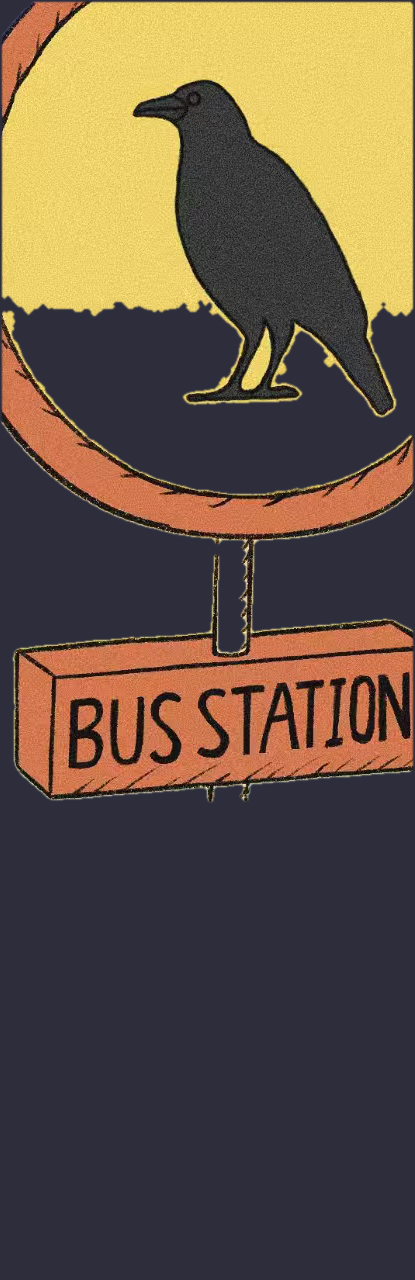
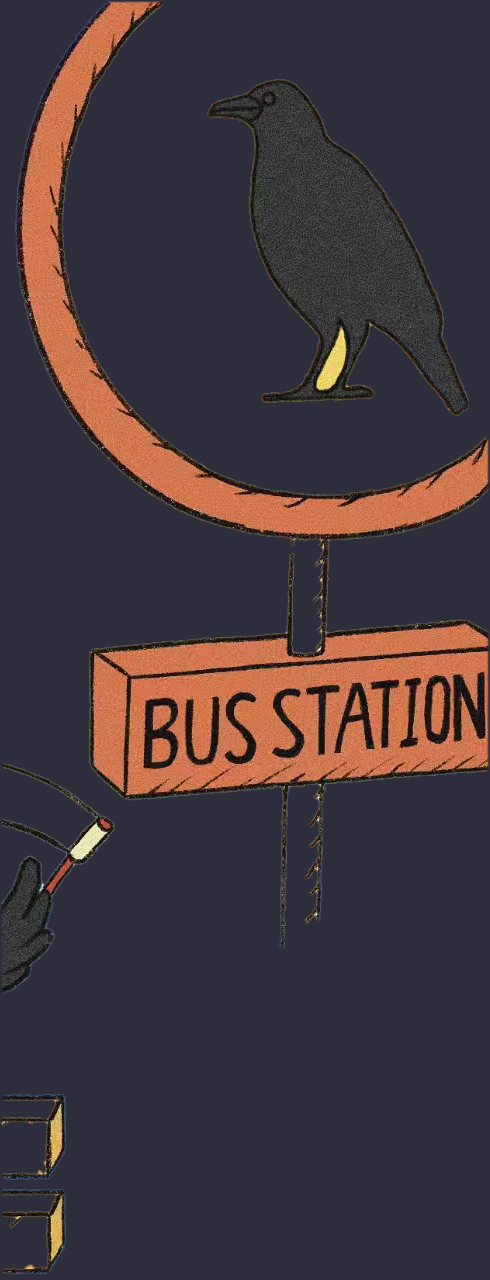
v18: sign completed (disc/plate/pole rebuilt), drive-in from left, independent bird hops, sign flip, horn+bird cheer audio

diff --git a/index.html b/index.html
@@ -47,7 +47,7 @@
   <p>2026 伊坂幸太郎月历 · 隐藏彩蛋</p>
   <button id="arBtn">开始 AR · 对准月历插画</button>
   <button id="vrBtn">进入 VR · 插画动起来</button>
-  <p style="font-size:11px;opacity:.4;margin-top:10px">v17</p>
+  <p style="font-size:11px;opacity:.4;margin-top:10px">v18</p>
 </div>
 
 <div id="container"></div>
@@ -91,6 +91,56 @@ window.addEventListener('unhandledrejection', (e) => {
   showErr((r && (r.message || r)) || '未处理的异常');
 });
 const backToSplash = () => { splash.style.display = 'flex'; };
+
+/* ── 音效（Web Audio 合成，无需外部文件） ── */
+let actx = null;
+function ensureAudio() {
+  const Ctx = window.AudioContext || window.webkitAudioContext;
+  if (!Ctx) return null;
+  if (!actx) actx = new Ctx();
+  if (actx.state === 'suspended') actx.resume();
+  return actx;
+}
+function playHorn() {
+  const ctx = ensureAudio(); if (!ctx) return;
+  const t0 = ctx.currentTime;
+  const master = ctx.createGain(); master.gain.value = 0.14;
+  const lp = ctx.createBiquadFilter(); lp.type = 'lowpass'; lp.frequency.value = 1500;
+  master.connect(lp).connect(ctx.destination);
+  const beep = (start, dur) => {
+    [392, 494].forEach(f => {
+      const o = ctx.createOscillator(); o.type = 'sawtooth'; o.frequency.value = f;
+      const g = ctx.createGain();
+      g.gain.setValueAtTime(0, t0 + start);
+      g.gain.linearRampToValueAtTime(1, t0 + start + 0.03);
+      g.gain.setValueAtTime(1, t0 + start + dur - 0.05);
+      g.gain.linearRampToValueAtTime(0, t0 + start + dur);
+      o.connect(g).connect(master);
+      o.start(t0 + start); o.stop(t0 + start + dur + 0.02);
+    });
+  };
+  beep(0, 0.26);
+  beep(0.36, 0.5);
+}
+function playCheer() {
+  const ctx = ensureAudio(); if (!ctx) return;
+  const t0 = ctx.currentTime;
+  for (let i = 0; i < 16; i++) {
+    const st = Math.random() * 1.2;
+    const f0 = 1900 + Math.random() * 1400;
+    const dur = 0.05 + Math.random() * 0.07;
+    const o = ctx.createOscillator(); o.type = 'sine';
+    o.frequency.setValueAtTime(f0, t0 + st);
+    o.frequency.exponentialRampToValueAtTime(f0 * 1.45, t0 + st + dur * 0.55);
+    o.frequency.exponentialRampToValueAtTime(f0 * 0.95, t0 + st + dur);
+    const g = ctx.createGain();
+    g.gain.setValueAtTime(0, t0 + st);
+    g.gain.linearRampToValueAtTime(0.05, t0 + st + 0.008);
+    g.gain.exponentialRampToValueAtTime(0.0008, t0 + st + dur);
+    o.connect(g).connect(ctx.destination);
+    o.start(t0 + st); o.stop(t0 + st + dur + 0.02);
+  }
+}
 
 /* ══════════ 原画贴片场景（AR / VR 共用） ══════════ */
 const UNIT = 1 / 1745;                    // 目标图宽归一化为 1
@@ -196,9 +246,11 @@ function createArtScene(meta, tex, opts = {}) {
   {
     const [x0, y0, x1, y1] = meta.rects.sign;
     const sign = spriteMesh('sign', meta, tex, 0);
-    const px = pxX((x0 + x1) / 2), pyBottom = pxY(y1);
-    signGroup.position.set(px, pyBottom, signZ);
-    sign.position.set(0, (pxY((y0 + y1) / 2) - pyBottom), 0);
+    sign.material.side = THREE.DoubleSide;      // 翻转时背面可见
+    const pivotX = pxX(1554);                   // 杆轴
+    const pyBottom = pxY(y1);
+    signGroup.position.set(pivotX, pyBottom, signZ);
+    sign.position.set(pxX((x0 + x1) / 2) - pivotX, pxY((y0 + y1) / 2) - pyBottom, 0);
     signGroup.add(sign);
     group.add(signGroup);
   }
@@ -249,6 +301,7 @@ function createArtScene(meta, tex, opts = {}) {
   const busRest = new THREE.Vector3(0, 0, -0.04);
   const busStart = new THREE.Vector3(driveFromX, 0, -0.04);
   let drive = null, wheelAngle = 0, lastT = 0;
+  let hornFired = false, cheerFired = false, wasDriving = false;
 
   const animate = (t) => {
     const dt = Math.min(0.05, Math.max(0, t - lastT));
@@ -282,17 +335,33 @@ function createArtScene(meta, tex, opts = {}) {
     wheelAngle -= wheelSpeed * dt;
     wheels.forEach(w => { w.rotation.z = wheelAngle; });
 
-    /* 鸟群 */
+    /* 鸟群：每只独立地上下跳跃 */
     const excite = 1 + (1 - driveK) * 1.1;
-    birds.forEach(b => {
+    birds.forEach((b, i) => {
       const ph = b.userData.phase;
-      const hop = Math.pow(Math.max(0, Math.sin(t * 0.9 * excite + ph * 2)), 22) * 0.016;
-      b.position.y = b.userData.baseY + Math.abs(Math.sin(t * 0.55 * excite + ph)) * 0.0035 + hop;
-      b.rotation.z = Math.sin(t * 0.5 * excite + ph) * 0.012;
+      const period = (2.4 + (i * 0.53) % 1.6) / excite;   // 各自周期不同
+      const cyc = ((t / period) + ph) % 1;
+      let hop = 0;
+      if (cyc < 0.55) {
+        const q = cyc / 0.55;                              // 抛物线式腾空
+        hop = 4 * q * (1 - q);
+      }
+      const h = 0.020 + (i % 3) * 0.006;                   // 跳起高度不同
+      b.position.y = b.userData.baseY + hop * h + Math.sin(t * 1.3 + ph) * 0.002;
+      b.rotation.z = Math.sin(t * 2 + ph) * 0.02 + hop * 0.04;
     });
 
-    /* 站牌轻摆 */
-    signGroup.rotation.z = Math.sin(t * 0.7) * 0.010;
+    /* 站牌：轻摆 + 周期性整体翻转 */
+    const flipCycle = 9.0;
+    const fu = (t % flipCycle) / flipCycle;
+    let signRotY = Math.sin(t * 0.6) * 0.08;
+    if (fu < 0.22) {
+      const q = fu / 0.22;
+      const fe = q * q * (3 - 2 * q);
+      signRotY += Math.PI * 2 * fe;
+    }
+    signGroup.rotation.y = signRotY;
+    signGroup.rotation.z = Math.sin(t * 0.7) * 0.008;
 
     /* 星星闪烁 */
     stars.forEach(s => {
@@ -308,7 +377,7 @@ function createArtScene(meta, tex, opts = {}) {
 }
 
 /* ══════════ AR 模式 ══════════ */
-document.getElementById('arBtn').addEventListener('click', startAR);
+document.getElementById('arBtn').addEventListener('click', () => { ensureAudio(); startAR(); });
 
 async function startAR() {
   splash.style.display = 'none';
@@ -372,7 +441,7 @@ async function startAR() {
   const anchor = mindarThree.addAnchor(0);
   const anchorRoot = anchor.group || anchor;
 
-  const art = createArtScene(ART_META, ART_TEX, { withSky: false, driveFromX: 1.15, driveDur: 3.6 });
+  const art = createArtScene(ART_META, ART_TEX, { withSky: false, driveFromX: -1.15, driveDur: 3.6 });
   art.group.position.z = 0.01;
   anchorRoot.add(art.group);
 
@@ -420,7 +489,7 @@ let vrActive = false;
 let vrState = null;
 let yawT = 0, pitchT = 0, lastInteract = 0, gyroBase = null, gyroOff = 0;
 
-document.getElementById('vrBtn').addEventListener('click', () => enterVR(false));
+document.getElementById('vrBtn').addEventListener('click', () => { ensureAudio(); enterVR(false); });
 document.getElementById('vrExit').addEventListener('click', () => {
   vrActive = false;
   vrRoot.style.display = 'none';
@@ -501,7 +570,7 @@ async function enterVR(auto = false) {
     fitCamera();
   });
 
-  const art = createArtScene(ART_META, ART_TEX, { withSky: true, driveFromX: 1.35, driveDur: 4.2 });
+  const art = createArtScene(ART_META, ART_TEX, { withSky: true, driveFromX: -1.35, driveDur: 4.2 });
   scene.add(art.group);
   art.startDriveIn(0.9);
 

diff --git a/tools/extract.py b/tools/extract.py
@@ -83,15 +83,16 @@ CROPS = {
     "bird3": (495,  680, 815,  SLAT, [(155, 270), (80, 80)], False),
     "bird4": (760,  790, 1085, SLAT, [(120, 160), (240, 240)], False),
     "bird6": (850,  650, 1345, SLAT, [(280, 300), (235, 115)], False),
-    "sign":  (1330, 0,   1745, 1280, [(210, 200), (270, 640), (110, 1000)], True),
+    "sign":  (1255, 0,   1745, 1280, None, "ink_all"),
     "bench": (55,  slat_top - 6, 1300, 1280, [(600, 60), (200, 40)], True),
 }
 
 rects, alphas = {}, {}
 for name, (x0, y0, x1, y1, seeds, mode) in CROPS.items():
-    if mode == "ink":
-        ink_c = ndimage.binary_closing(ink[y0:y1, x0:x1], iterations=2)
-        fgc = ndimage.binary_fill_holes(ink_c) | red[y0:y1, x0:x1]
+    if mode in ("ink", "ink_all"):
+        ink_c = ink[y0:y1, x0:x1] | red[y0:y1, x0:x1]
+        ink_c = ndimage.binary_closing(ink_c, iterations=2)
+        fgc = ndimage.binary_fill_holes(ink_c)
         fgc = ndimage.binary_opening(fgc, iterations=1)
     else:
         fgc = fg_global[y0:y1, x0:x1].copy()
@@ -99,7 +100,15 @@ for name, (x0, y0, x1, y1, seeds, mode) in CROPS.items():
         fgc = ndimage.binary_opening(fgc, iterations=2)
         if mode is True:
             fgc = ndimage.binary_fill_holes(fgc)
-    keep = keep_seed_components(fgc, seeds, min_area=500 if name == "bus" else 250)
+    if mode == "ink_all":
+        lab_a, n_a = ndimage.label(fgc)
+        keep = np.zeros_like(fgc)
+        for i in range(1, n_a + 1):
+            comp = (lab_a == i)
+            if comp.sum() >= 1500:
+                keep |= comp
+    else:
+        keep = keep_seed_components(fgc, seeds, min_area=500 if name == "bus" else 250)
     if name == "bird6":
         keep = ndimage.binary_opening(keep, iterations=1)
         busA = np.asarray(Image.open(os.path.join(OUT, "bus.png")).convert("RGBA"))[:, :, 3] > 10
@@ -133,27 +142,84 @@ for name in ["bird1", "bird2", "bird3", "bird4", "bird6"]:
     acc = np.maximum(acc, a_full)
     alphas[name] = a_full[y0:y1, x0:x1]
 
-# ── 站牌圆盘：按红环拟合圆，兜底强制填充 ──
-x0, y0, x1, y1 = rects["sign"]
-sign_rgb = img[y0:y1, x0:x1]
-sr = (sign_rgb[:, :, 0] > 120) & ((sign_rgb[:, :, 0].astype(np.int16) - np.maximum(sign_rgb[:, :, 1], sign_rgb[:, :, 2])) > 55)
-sr[int(sign_rgb.shape[0] * 0.45):, :] = False
-s_lab, s_n = ndimage.label(sr)
-sign_file = os.path.join(OUT, "sign.png")
-sign_img = np.asarray(Image.open(sign_file).convert("RGBA")).copy()
-if s_n:
-    sizes = ndimage.sum(sr, s_lab, range(1, s_n + 1))
-    ci = int(np.argmax(sizes)) + 1
-    ys, xs = np.nonzero(s_lab == ci)
-    ccx, ccy = xs.mean(), ys.mean()
-    rad = (np.sqrt((xs - ccx) ** 2 + (ys - ccy) ** 2)).max() + 3
-    yy, xx = np.mgrid[0:sign_img.shape[0], 0:sign_img.shape[1]]
-    d = np.sqrt((xx - ccx) ** 2 + (yy - ccy) ** 2)
-    inside = np.clip((rad - d) / 2.5, 0, 1)
-    sign_img[:, :, 3] = np.maximum(sign_img[:, :, 3], (inside * 255).astype(np.uint8))
-    Image.fromarray(sign_img, "RGBA").save(sign_file)
-    print("disc fill: c=(%.0f,%.0f) r=%.0f" % (ccx, ccy, rad))
-    alphas["sign"] = sign_img[:, :, 3].astype(np.float32) / 255
+# ── 站牌重建：牌子向右补全（含 N 字）+ 杆子重画到圆头 ──
+def rebuild_sign():
+    sx0, sy0 = 1255, 0
+    art_path = os.path.join(OUT, "sign.png")
+    art = np.asarray(Image.open(art_path).convert("RGBA")).copy()   # 415 x 1280
+    AH, AW = art.shape[:2]
+    NEWW = 580
+    TOPPAD = 110
+    canvas = np.zeros((AH + TOPPAD, NEWW, 4), np.uint8)
+
+    # 杆子位置：tan 色检测（行 800..1200）
+    strip = img[800:1200, 1480:1640]
+    tanm = (np.abs(strip[:, :, 0].astype(int) - 234) < 28) &            (np.abs(strip[:, :, 1].astype(int) - 206) < 28) &            (np.abs(strip[:, :, 2].astype(int) - 158) < 36)
+    xs = np.nonzero(tanm)[1]
+    if len(xs):
+        px_a = int(np.percentile(xs, 5)) + 1480 - sx0
+        px_b = int(np.percentile(xs, 95)) + 1480 - sx0
+    else:
+        px_a, px_b = 206, 238
+    tan_col = np.array([234, 206, 158, 255], np.uint8)
+    dark    = np.array([30, 20, 15, 255], np.uint8)
+    pole_top, pole_bot, cap_r = 522, 1228, 16
+    canvas[pole_top + TOPPAD:pole_bot + TOPPAD, px_a:px_b] = tan_col
+    canvas[pole_top + TOPPAD:pole_bot + TOPPAD, px_a:px_a + 2] = dark
+    canvas[pole_top + TOPPAD:pole_bot + TOPPAD, px_b - 2:px_b] = dark
+    yy, xx = np.mgrid[0:AH + TOPPAD, 0:NEWW]
+    yy_art = yy - TOPPAD
+    cx_cap = (px_a + px_b) / 2.0
+    dist = np.sqrt((yy_art - pole_bot) ** 2 + (xx - cx_cap) ** 2)
+    canvas[(dist <= cap_r) & (yy_art >= pole_bot)] = tan_col
+    canvas[(np.abs(dist - cap_r) <= 1.5) & (yy_art >= pole_bot)] = dark
+
+    # 贴回原画部件（圆盘/牌子/乌鸦）
+    am = art[:, :, 3] > 128
+    # 排除横幅右端残片（左下角区域），避免混入站牌
+    yy_a, xx_a = np.mgrid[0:AH, 0:AW]
+    am = am & ~((yy_a > 790) & (xx_a < 1500 - sx0))
+    am = am & ~((yy_a > 600) & (yy_a < 700) & (xx_a < 60))   # 左侧碎屑
+    region = canvas[TOPPAD:TOPPAD + AH, :AW]
+    region[am] = art[am]
+
+    # 补全被图片上边缘切掉的圆盘顶部（最小二乘拟合红环）
+    rim = red[0:560, 1255:1745]
+    ys_r, xs_r = np.nonzero(rim)
+    drop = (ys_r > 545)
+    ys_r, xs_r = ys_r[~drop], xs_r[~drop]
+    if len(xs_r) > 500:
+        A = np.c_[xs_r, ys_r, np.ones(len(xs_r))]
+        b = -(xs_r.astype(np.float64) ** 2 + ys_r.astype(np.float64) ** 2)
+        sol, *_ = np.linalg.lstsq(A, b, rcond=None)
+        ccx, ccy = -sol[0] / 2, -sol[1] / 2
+        r_fit = np.sqrt(ccx * ccx + ccy * ccy - sol[2])
+        dists = np.sqrt((xs_r - ccx) ** 2 + (ys_r - ccy) ** 2)
+        r_in = float(np.percentile(dists, 2)) - 2
+        r_out = float(np.percentile(dists, 98)) + 3
+        print("disc circle: c=(%.0f,%.0f) r=%.0f in=%.0f out=%.0f" % (ccx, ccy, r_fit, r_in, r_out))
+
+        yy2, xx2 = np.mgrid[0:AH + TOPPAD, 0:NEWW]
+        dx = xx2 - ccx
+        dy = yy2 - (ccy + TOPPAD)
+        dd = np.sqrt(dx * dx + dy * dy)
+        empty = canvas[:, :, 3] == 0
+        red_c = np.array([205, 118, 80, 255], np.uint8)
+        yellow_c = np.array([233, 206, 103, 255], np.uint8)
+        dark_c = np.array([30, 20, 15, 255], np.uint8)
+
+        face = (dd < r_in) & empty
+        canvas[face] = yellow_c
+        ring = (dd >= r_in) & (dd <= r_out) & empty
+        canvas[ring] = red_c
+        canvas[(np.abs(dd - r_in) <= 1.6) & empty] = dark_c
+        canvas[(np.abs(dd - r_out) <= 1.6) & empty] = dark_c
+
+    Image.fromarray(canvas, "RGBA").save(art_path)
+    rects["sign"] = (sx0, -TOPPAD, sx0 + NEWW, 1280)
+    print("sign rebuilt:", rects["sign"], "pole x", px_a, px_b)
+
+rebuild_sign()
 
 # ── 车轮（巴士贴片内红区）──
 bus_img = np.asarray(Image.open(os.path.join(OUT, "bus.png")).convert("RGBA"))
